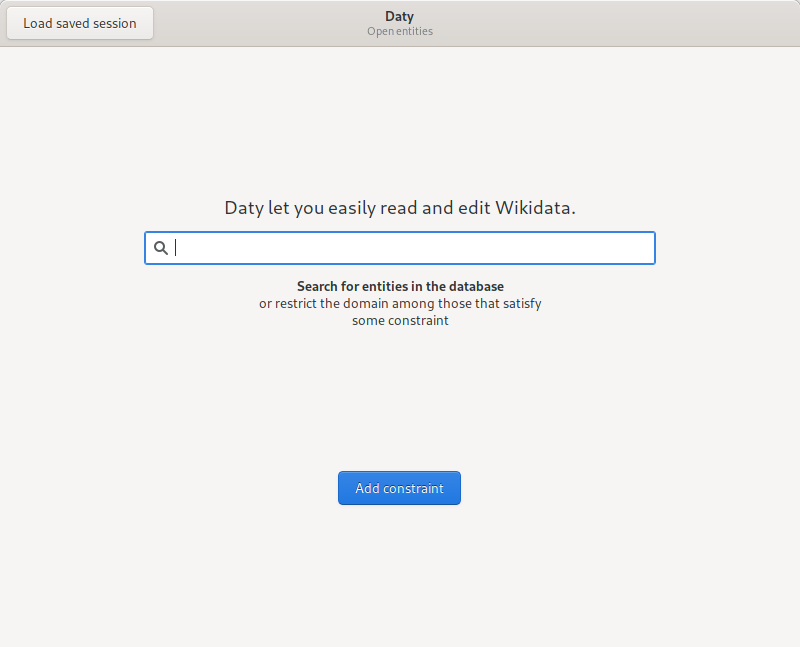
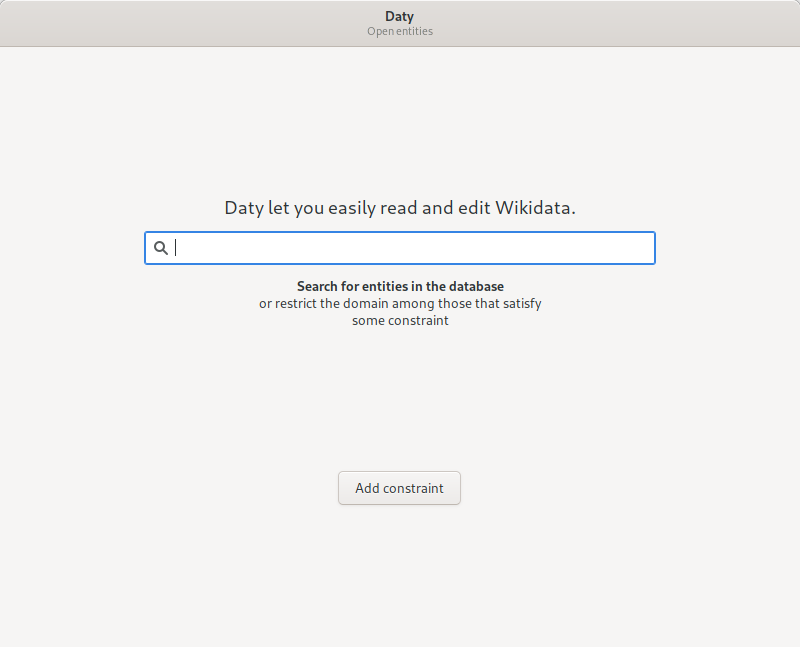
Open: reorganization complete.

Changed region(s): [[0.4062, 0.711, 0.5938, 0.8037], [0.0, 0.0, 0.1875, 0.0618]]

diff --git a/daty/open.py b/daty/open.py
@@ -44,16 +44,15 @@ class Open(Window):
     wikidata = Wikidata()
 
     #properties = Template.Child("properties")
+    back = Template.Child("back")
     content_stack = Template.Child("content_stack")
     header_bar = Template.Child("header_bar")
-#    header_bar_stack = Template.Child("header_bar_stack")
-    search_stack = Template.Child("search_stack")
+    constraint_box = Template.Child("constraint_box")
     constraint_button_box = Template.Child("constraint_button_box")
     constraint_listbox = Template.Child("constraint_listbox")
     constraint_search = Template.Child("constraint_search")
     open_session = Template.Child("open_session")
     page = Template.Child("page")
-    placeholder_back = Template.Child("placeholder_back")
     label_listbox = Template.Child("label_listbox")
     open_button = Template.Child("open_button")
     results = Template.Child("results")
@@ -71,7 +70,7 @@ class Open(Window):
         self.set_icon_list(icons);
 
         self.verbose = verbose
-        self.new_session = new_session
+        #self.new_session = new_session
 
         if quit_cb:
             self.quit_cb = quit_cb
@@ -87,10 +86,13 @@ class Open(Window):
         self.label_listbox.selected = []
 
         if new_session:
-            self.set_search_placeholder(True)
+            self.header_bar.set_show_close_button(True)
+            #self.set_search_placeholder(True)
               
         else:
-            self.set_search_placeholder(False, search_stack="label_search")
+            self.header_bar.set_show_close_button(False)
+            self.back.set_visible(True)
+            #self.set_search_placeholder(False, search_stack="label_search")
 
         self.entities = self.label_listbox.selected
 
@@ -107,32 +109,15 @@ class Open(Window):
         child = self.page.get_child_at(0,0)
         child.set_property("vexpand", value)
         if value:
-            print(child.props)
             self.page.child_set_property(child, "width", 2)
-            self.constraint_button_box.props.valign = 1
+            if not self.constraint_box.get_visible():
+                self.constraint_button_box.props.valign = 1
 
         else:
-            print(child.props)
             self.page.child_set_property(child, "width", 1)
             #child.set_property("vexpand", False)
-            self.constraint_button_box.props.valign = 0
-            #self.open_button.set_visible(value)
-       #if value:
-       #    self.header_bar_stack.set_visible_child_name("open_entities")
-       #    self.content_stack.set_visible_child_name("placeholder")
-       #    self.open_session.set_visible(True)
-       #    self.placeholder_back.set_visible(False)
-       #    self.open_button.set_visible(False)
-       #    self.header_bar.set_show_close_button(True)
-       #else:
-       #    if self.content_stack.get_visible_child_name() == "placeholder":
-       #         self.header_bar_stack.set_visible_child_name("header_search_type")
-       #         self.content_stack.set_visible_child_name("search")
-       #         self.search_stack.set_visible_child_name(search_stack)
-       #         self.open_session.set_visible(False)
-       #         self.placeholder_back.set_visible(True)
-       #         self.open_button.set_visible(True)
-       #         self.header_bar.set_show_close_button(False)
+            if not self.constraint_box.get_visible():
+                self.constraint_button_box.props.valign = 0
 
     def open_button_clicked_cb(self, widget, load):
         if self.entities != []:
@@ -140,32 +125,28 @@ class Open(Window):
         self.destroy()
 
     @Template.Callback()
-    def placeholder_back_clicked_cb(self, widget):
-        self.set_search_placeholder(True)
+    def back_clicked_cb(self, widget):
+        self.on_quit(widget, None)
+        #self.set_search_placeholder(True)
 
     @Template.Callback()
     def placeholder_add_constraint_clicked_cb(self, widget):
-        self.set_search_placeholder(False, search_stack="constraints")
+        self.constraint_box.set_visible(True)
+        #self.set_search_placeholder()
 
     @Template.Callback()
     def key_press_event_cb(self, widget, event):
-        #pass
-    #    if self.verbose:
-    #        print("Keyval of key pressed:", event.keyval)
         # if Esc, set placeholder ot [Right Alt, Tab, Esc, Maiusc, Control, Bloc Maiusc, Left Alt]
-        if event.keyval == 65307 and self.new_session:
+        if event.keyval == 65307:
             #self.set_search_placeholder(True)
             self.search_entry.set_text("")
-    #    # else if key is [Right Alt, Tab, Maiusc, Control, Bloc Maiusc, Left Alt]
-    #    elif event.keyval in [65027, 65289, 65505, 65509, 65513]:
-    #        pass
-    #    else:
-    #        self.set_search_placeholder(False)
 
     def on_search_done(self, results, error):
         self.label_listbox.foreach(self.label_listbox.remove)
         for r in results:
-            entity = EntitySelectable(r, selected=self.label_listbox.selected)
+            entity = EntitySelectable(r,
+                                      selected=self.label_listbox.selected,
+                                      open_button=self.open_button)
             row = ListBoxRow()
             row.add(entity)
             self.label_listbox.add(row)

diff --git a/daty/entityselectable.py b/daty/entityselectable.py
@@ -33,7 +33,7 @@ class EntitySelectable(CheckButton):
     description = Template.Child("description")
     URI = Template.Child("URI")
 
-    def __init__(self, entity, *args, widget=True, selected=None):
+    def __init__(self, entity, *args, widget=True, selected=None, open_button=None):
         """Search result widget in 'open new entity' dialog
 
             Args:
@@ -54,10 +54,12 @@ class EntitySelectable(CheckButton):
             self.URI.destroy()
 
         if selected != None:
-            self.connect("toggled", self.toggled_cb, selected)
+            args = [self.toggled_cb, selected]
+            if open_button: args = args + [open_button]
+            self.connect("toggled", *args)
         self.show_all()
 
-    def toggled_cb(self, widget, selected):
+    def toggled_cb(self, widget, selected, *args):
         """Toggled callback
 
             Args:
@@ -67,5 +69,14 @@ class EntitySelectable(CheckButton):
         """
         if widget.get_active():
             selected.append(self.entity)
+            try:
+                args[0].set_sensitive(True)
+            except:
+                pass
         else:
             selected.remove(self.entity)
+            if not selected:
+                try:
+                    args[0].set_sensitive(False)
+                except:
+                    pass

diff --git a/daty/editor.py b/daty/editor.py
@@ -112,6 +112,7 @@ class Editor(ApplicationWindow):
         self.set_icon_list(icons);
 
         #self.common.set_visible(False)
+        self.quit_cb = quit_cb
 
         # Init sidebar
         self.sidebar_list = SidebarList(self.single_column,
@@ -133,7 +134,7 @@ class Editor(ApplicationWindow):
         if entities:
             self.load(entities)
         else:
-            Open(self.load, quit_cb=quit_cb, new_session=True)
+            Open(self.load, quit_cb=self.quit_cb, new_session=True)
 
     def load(self, entities):
         """Open entities
@@ -196,7 +197,7 @@ class Editor(ApplicationWindow):
             Args:
                 widget (Gtk.Widget): the clicked widget.
         """
-        Open(self.load, new_session=False,)
+        Open(self.load, quit_cb=self.quit_cb, new_session=False)
 
     @Template.Callback()
     def entities_search_toggled_cb(self, widget):
